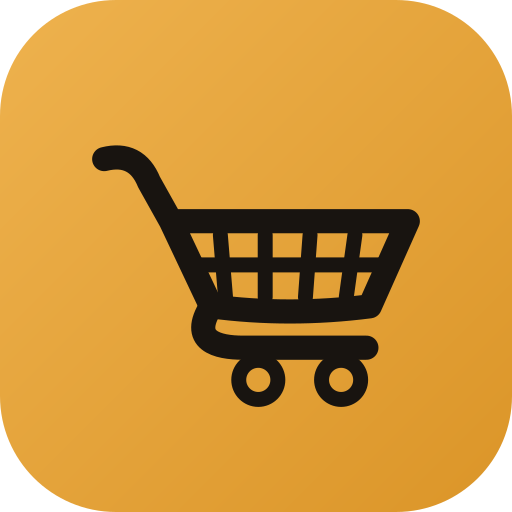
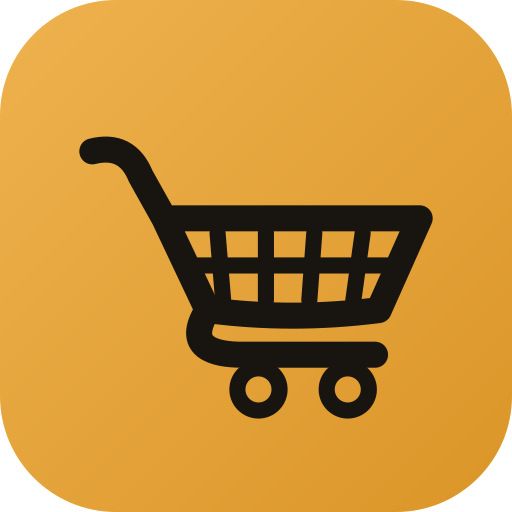
Aba Itens compacta + imagens organizadas + ícone maior + lista mais enxuta
1) Imagens do usuário movidas p/ design/ (icone_carrinho_ref[_3d].png).
2) Aba Itens: pílula de preço numa linha só (● Mercado  R$ x,xx), mais barato
   PREENCHIDO âmbar (sem badge "MENOR"); card mais compacto (padding/espacos).
3) Ícone do carrinho maior (scale 1.15->1.24; fg 1.0->1.08).
4) Aba Listas ainda mais enxuta: item vertical 2->1; checkbox 22->20;
   stepper 26->24; botao editar minH 28->24 (fonte intacta).

diff --git a/app/lib/features/itens/itens_screen.dart b/app/lib/features/itens/itens_screen.dart
@@ -182,15 +182,15 @@ class _ItensScreenState extends ConsumerState<ItensScreen> {
         : 0.0;
 
     return Padding(
-      padding: const EdgeInsets.only(bottom: 10),
+      padding: const EdgeInsets.only(bottom: 8),
       child: Material(
         color: AppColors.surface,
-        borderRadius: BorderRadius.circular(14),
+        borderRadius: BorderRadius.circular(13),
         child: InkWell(
-          borderRadius: BorderRadius.circular(14),
+          borderRadius: BorderRadius.circular(13),
           onTap: () => mostrarEditorProduto(context, p, mercados),
           child: Container(
-            padding: const EdgeInsets.all(14),
+            padding: const EdgeInsets.fromLTRB(12, 10, 12, 11),
             decoration: BoxDecoration(
               borderRadius: BorderRadius.circular(14),
               border: Border.all(color: AppColors.line),
@@ -260,10 +260,10 @@ class _ItensScreenState extends ConsumerState<ItensScreen> {
                         style: TextStyle(color: AppColors.dim2, fontSize: 12.5)),
                   )
                 else ...[
-                  const SizedBox(height: 11),
+                  const SizedBox(height: 8),
                   Wrap(
-                    spacing: 8,
-                    runSpacing: 8,
+                    spacing: 6,
+                    runSpacing: 6,
                     children: [
                       for (var i = 0; i < ordenados.length; i++)
                         _pilulaPreco(
@@ -275,7 +275,7 @@ class _ItensScreenState extends ConsumerState<ItensScreen> {
                   ),
                   if (economia > 0)
                     Padding(
-                      padding: const EdgeInsets.only(top: 10),
+                      padding: const EdgeInsets.only(top: 7),
                       child: Row(
                         children: [
                           const Icon(Icons.savings_outlined,
@@ -303,7 +303,7 @@ class _ItensScreenState extends ConsumerState<ItensScreen> {
   /// Item "de um mercado só": em vez das pílulas de preço, mostra onde comprar.
   Widget _badgeDedicado(Mercado? mercado, bool recorrente) {
     return Padding(
-      padding: const EdgeInsets.only(top: 11),
+      padding: const EdgeInsets.only(top: 8),
       child: Row(
         children: [
           const Icon(Icons.storefront, size: 15, color: AppColors.green),
@@ -334,61 +334,38 @@ class _ItensScreenState extends ConsumerState<ItensScreen> {
     );
   }
 
+  /// Pílula de preço numa linha: ● Mercado  R$ x,xx. O mais barato fica
+  /// preenchido âmbar (como uma seleção); sem badge "MENOR".
   Widget _pilulaPreco({
     required Mercado? mercado,
     required PrecoMercado preco,
     required bool menor,
   }) {
     return Container(
-      padding: const EdgeInsets.symmetric(horizontal: 11, vertical: 8),
+      padding: const EdgeInsets.symmetric(horizontal: 10, vertical: 6),
       decoration: BoxDecoration(
-        color: AppColors.bg,
-        borderRadius: BorderRadius.circular(10),
-        border: Border.all(
-          color: menor ? AppColors.green.withValues(alpha: 0.5) : AppColors.line,
-        ),
+        color: menor ? AppColors.green : AppColors.bg,
+        borderRadius: BorderRadius.circular(9),
       ),
-      child: Column(
-        crossAxisAlignment: CrossAxisAlignment.start,
+      child: Row(
         mainAxisSize: MainAxisSize.min,
         children: [
-          Row(
-            mainAxisSize: MainAxisSize.min,
-            children: [
-              Container(
-                width: 8,
-                height: 8,
-                margin: const EdgeInsets.only(right: 6),
-                decoration: BoxDecoration(
-                    color: mercado?.cor ?? AppColors.dim2,
-                    shape: BoxShape.circle),
-              ),
-              Text(mercado?.nome ?? '—',
-                  style: const TextStyle(color: AppColors.dim, fontSize: 11)),
-              if (menor) ...[
-                const SizedBox(width: 6),
-                Container(
-                  padding:
-                      const EdgeInsets.symmetric(horizontal: 5, vertical: 1),
-                  decoration: BoxDecoration(
-                    color: AppColors.green.withValues(alpha: 0.16),
-                    borderRadius: BorderRadius.circular(5),
-                  ),
-                  child: const Text('MENOR',
-                      style: TextStyle(
-                          color: AppColors.green,
-                          fontSize: 8.5,
-                          fontWeight: FontWeight.w700,
-                          letterSpacing: .5)),
-                ),
-              ],
-            ],
+          Container(
+            width: 8,
+            height: 8,
+            margin: const EdgeInsets.only(right: 6),
+            decoration: BoxDecoration(
+                color: mercado?.cor ?? AppColors.dim2, shape: BoxShape.circle),
           ),
-          const SizedBox(height: 3),
+          Text(mercado?.nome ?? '—',
+              style: TextStyle(
+                  color: menor ? AppColors.onGreen : AppColors.dim,
+                  fontSize: 11.5)),
+          const SizedBox(width: 8),
           Text(reais(preco.valor),
               style: TextStyle(
-                  color: menor ? AppColors.green : AppColors.text,
-                  fontSize: 14,
+                  color: menor ? AppColors.onGreen : AppColors.text,
+                  fontSize: 13,
                   fontWeight: FontWeight.w700)),
         ],
       ),

diff --git a/app/lib/features/listas/listas_screen.dart b/app/lib/features/listas/listas_screen.dart
@@ -603,7 +603,7 @@ class _ListasScreenState extends ConsumerState<ListasScreen> {
             .setComprado(atual.id, it.id, !it.comprado),
         // FLAT: item sem caixinha — fundo do app, separado por linha fina embaixo
         child: Container(
-          padding: const EdgeInsets.symmetric(horizontal: 4, vertical: 2),
+          padding: const EdgeInsets.symmetric(horizontal: 4, vertical: 1),
           decoration: const BoxDecoration(
             border: Border(bottom: BorderSide(color: AppColors.lineStrong)),
           ),
@@ -652,7 +652,7 @@ class _ListasScreenState extends ConsumerState<ListasScreen> {
                   visualDensity: VisualDensity.compact,
                   padding: EdgeInsets.zero,
                   constraints:
-                      const BoxConstraints(minWidth: 28, minHeight: 28),
+                      const BoxConstraints(minWidth: 28, minHeight: 24),
                   tooltip: 'Editar preços/mercado',
                   icon: const Icon(Icons.sell_outlined,
                       size: 18, color: AppColors.dim),
@@ -731,8 +731,8 @@ class _ListasScreenState extends ConsumerState<ListasScreen> {
       onTap: onTap,
       borderRadius: BorderRadius.circular(8),
       child: Container(
-        width: 26,
-        height: 26,
+        width: 24,
+        height: 24,
         decoration: BoxDecoration(
           color: AppColors.bg,
           borderRadius: BorderRadius.circular(8),
@@ -747,8 +747,8 @@ class _ListasScreenState extends ConsumerState<ListasScreen> {
   Widget _checkbox(bool marcado) {
     return AnimatedContainer(
       duration: const Duration(milliseconds: 150),
-      width: 22,
-      height: 22,
+      width: 20,
+      height: 20,
       decoration: BoxDecoration(
         color: marcado ? AppColors.green : Colors.transparent,
         borderRadius: BorderRadius.circular(7),
